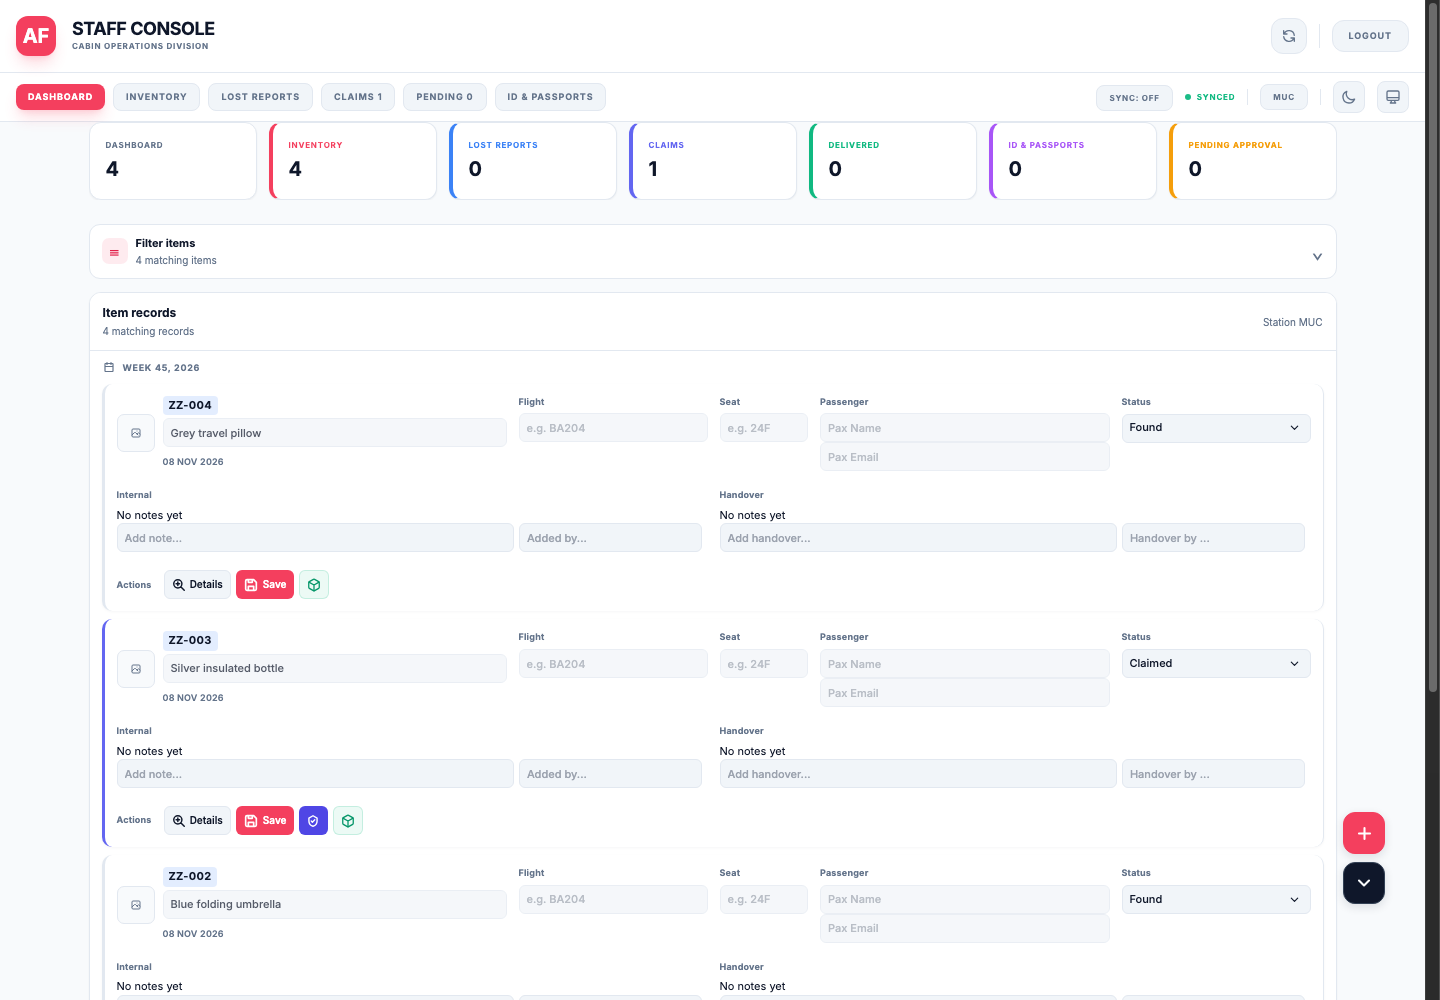
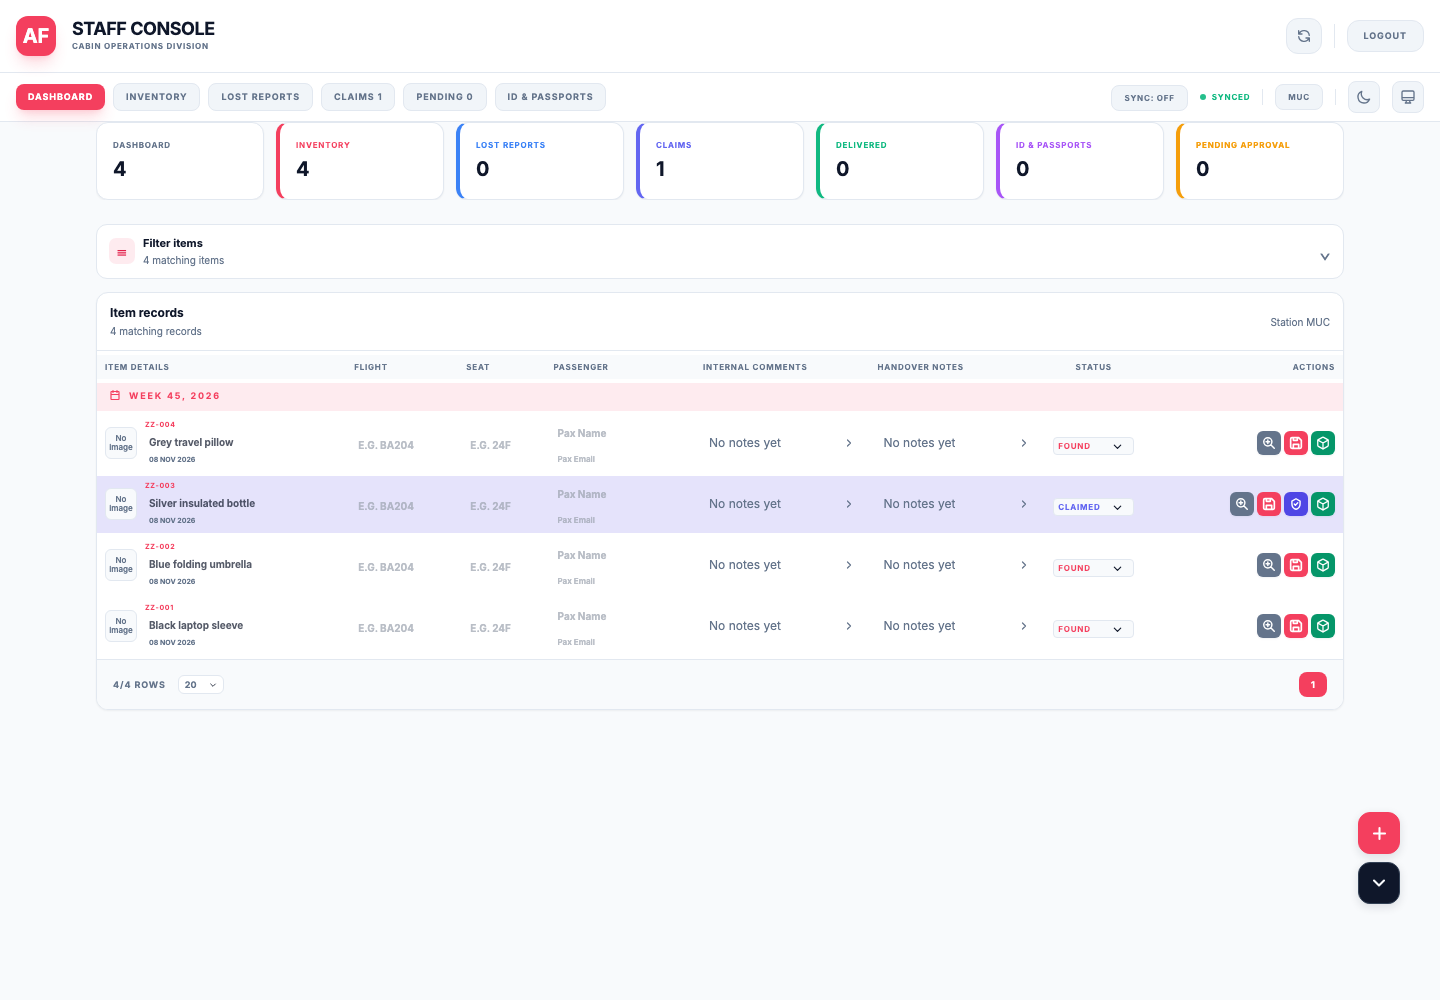
Refresh screenshots from the local portal

diff --git a/README.md b/README.md
@@ -45,15 +45,15 @@ Enter the username for the role you’re reviewing and use the password provided
 
 ## Screenshots
 
-### Live website
+### Local preview
 
-![Live passenger portal showing station selection](screenshots/live-passenger.png)
+![Local passenger portal showing station selection](screenshots/local-passenger.png)
 
-![Live staff sign-in page](screenshots/live-staff-sign-in.png)
+![Local staff sign-in page](screenshots/local-staff-sign-in.png)
 
 ### Demo workflows
 
-These screenshots use fictional records.
+These screenshots show the local build with fictional records.
 
 ![Passenger portal showing found items for a sample airline](screenshots/passenger.png)
 
